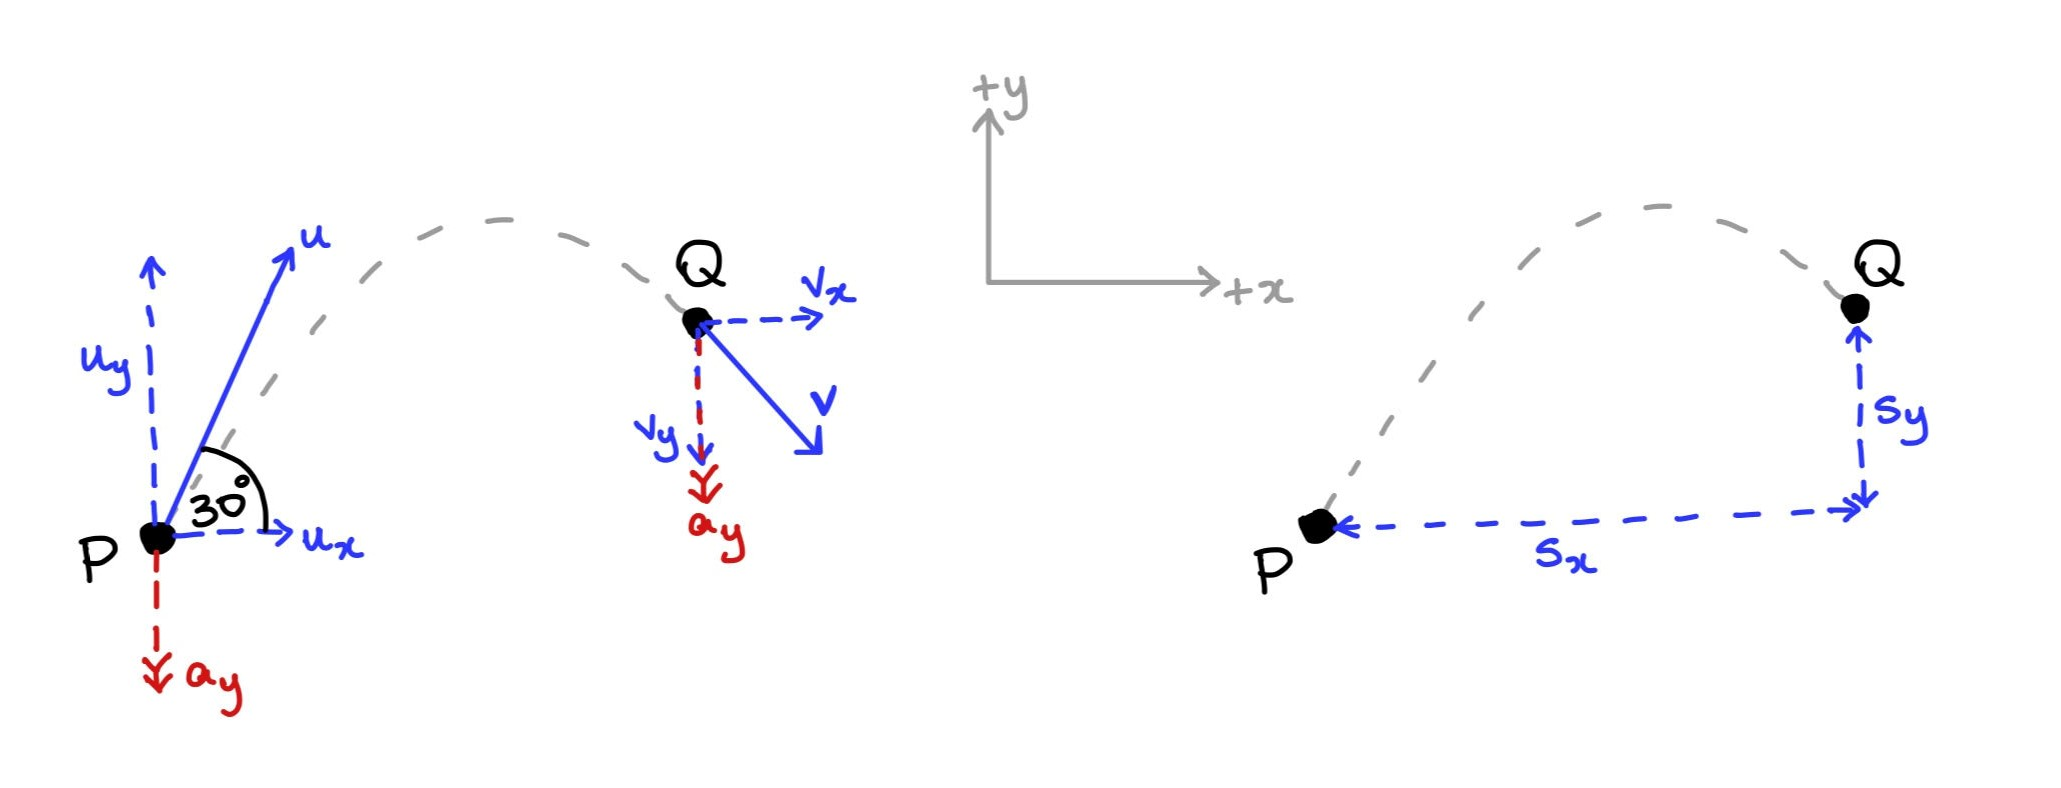
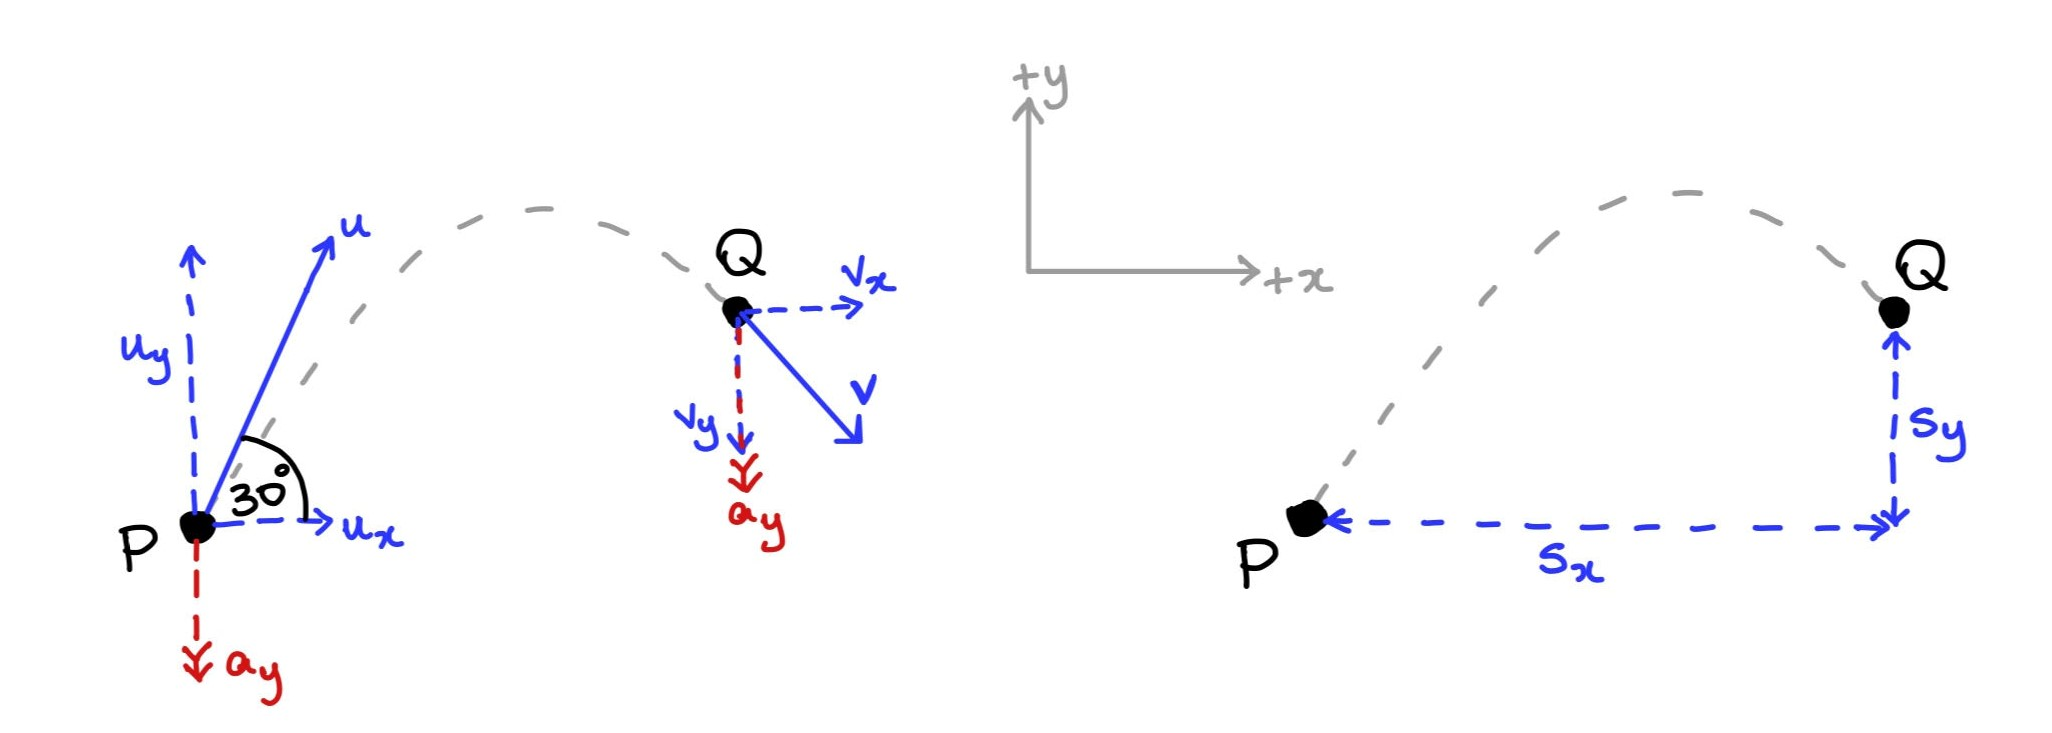
Fix q6 and add hand drawn diagrams

diff --git a/include/Solutions/2005/q6.tex b/include/Solutions/2005/q6.tex
@@ -24,20 +24,14 @@ We are given a ball that is launched at an angle to the horizontal.
 	
 \subquestion
 	
-\textbf{\textit{Sketch and Translate:}} \\ \\
-We can refer to the diagram given in the question for our sketch. At the greatest height, we should note that the vertical velocity, $v_y$ will be 0.
+\textbf{\textit{Sketch and Translate:}} \\
+We can refer to the diagram given in the question for our sketch. At the greatest height, we should note that the vertical velocity, $v_y$ will be 0. \\
 
 
 
 
-\textbf{\textit{Simplify and Diagram:}} \\ \\ 
-\addimage{../2005/figures/2005q6-Diagram1}{hhello}{Yes hi}
-\begin{figure}[H] 
-	\begin{center}
-		\hspace{20pt}\includegraphics[scale=1.2]{../2005/figures/2005q6-Diagram1}
-		\caption{\label{2005:q6:Diagram1} Motion of the ball. The left shows the velocity and acceleration of the ball, the right shows its displacement}
-	\end{center}
-\end{figure}
+\textbf{\textit{Simplify and Diagram:}} 
+\addimage{../2005/figures/2005q6-Diagram1}{2005:q6:Diagram1}{Motion of the ball, at points P and Q}
 
 We will consider the ball to act as a point particle. Let us define the following:
 \begin{itemize}
@@ -52,12 +46,12 @@ We will consider the ball to act as a point particle. Let us define the followin
 	\item $s_y$ is the vertical displacement,
 	\item $t$ is the time after launch.
 \end{itemize}
-We can find the time taken to reach the maximum height by using our equations of motion.
+We can find the time taken to reach the maximum height by using our equations of motion. \\
 	
 	
 	
 	
-\textbf{\textit{Represent Mathematically:}} \\ \\
+\textbf{\textit{Represent Mathematically:}} \\
 At max height, we know that,
 \begin{equation}
 	v_y = 0 \,.
@@ -71,7 +65,7 @@ We will find the time taken to reach the maximum height by using,
 
 
 
-\textbf{\textit{Solve and Evaluate:}} \\ \\
+\textbf{\textit{Solve and Evaluate:}} \\ 
 Using \req{2005:q5:VEqn1}, we get that,
 \begin{align}
 	0 & = 30\sin(30) -10t \nn \\
@@ -84,13 +78,13 @@ Using \req{2005:q5:VEqn1}, we get that,
 
 \subquestion 
 
-\textbf{\textit{Simplify and Diagram:}} \\ \\
-We can consider \rfig{2005:q6:Diagram1}. Again, we will use our equations of motion to find the greatest height reached. 
+\textbf{\textit{Simplify and Diagram:}} \\ 
+We can consider \rfig{2005:q6:Diagram1}. Again, we will use our equations of motion to find the greatest height reached. \\
 
 
 
 
-\textbf{\textit{Represent Mathematically:}} \\ \\
+\textbf{\textit{Represent Mathematically:}} \\ 
 At max height, we know that,
 \begin{equation}
 	v_y = 0 \,.
@@ -104,7 +98,7 @@ We will find the greatest height by using,
 
 
 
-\textbf{\textit{Solve and Evaluate:}} \\ \\
+\textbf{\textit{Solve and Evaluate:}} \\ 
 Using \req{2005:q5:SEqn1}, we get that,
 \begin{align}
 	0 & = (30\sin(30))^2 + 2(-10)(s_y) \nn \\
@@ -118,19 +112,19 @@ Using \req{2005:q5:SEqn1}, we get that,
 
 \subquestion 
 
-\textbf{\textit{Sketch and Translate:}} \\ \\
-We can consider \rfig{2005:q6:Sketch1}. At Q, we know that $s_y=10$.
+\textbf{\textit{Sketch and Translate:}} \\
+Again we refer to the sketch given in the question. At Q, we know that $s_y=10$. \\
 
 
 
 
-\textbf{\textit{Sketch and Translate:}} \\ \\
-We can consider \rfig{2005:q6:Diagram1}. We will use our equations of motion and find the times when $s_y=10$. We will take the value that is greater than 1.5s as we know, from the diagram in the question, that the ball reaches Q after it has attained its maximum height.
+\textbf{\textit{Simplify and Diagram:}} \\ 
+We can consider \rfig{2005:q6:Diagram1}. We will use our equations of motion and find the times when $s_y=10$. We will take the value that is greater than 1.5s as we know, from the diagram in the question, that the ball reaches Q after it has attained its maximum height. \\
 
 
 
 
-\textbf{\textit{Represent Mathematically:}} \\ \\
+\textbf{\textit{Represent Mathematically:}} \\
 At Q, we know that,
 \begin{equation}
 	s_y=10 \,.
@@ -144,7 +138,7 @@ To find the time taken to reach Q from P, we will use,
 
 
 
-\textbf{\textit{Solve and Evaluate:}} \\ \\
+\textbf{\textit{Solve and Evaluate:}} \\
 Using \req{2005:q6:SEqn2}, we get,
 \begin{align}
 	10 & = 30\sin(30)t + \frac{1}{2}(-10)t^2 \nn \\
@@ -152,7 +146,7 @@ Using \req{2005:q6:SEqn2}, we get,
 	(5t-5)(t-2) & = 0 \nn \\
 	t & = 1, 2 \,.
 \end{align}
-From this, we get that it takes 2s for the ball to reach Q from P.
+From this, we get that it takes 2s for the ball to reach Q from P. \\
 
 %------------------------------------------------------------------------------
 % 6 d
@@ -160,13 +154,8 @@ From this, we get that it takes 2s for the ball to reach Q from P.
 
 \subquestion 
 
-\textbf{\textit{Simplify and Diagram:}} \\ \\
-\begin{figure}[H] 
-	\begin{center}
-		\hspace{20pt}\includegraphics[scale=1.2]{../2005/figures/2005q6-Diagram2}
-		\caption{\label{2005:q6:Diagram2} Ball at points P and Q}
-	\end{center}
-\end{figure}
+\textbf{\textit{Simplify and Diagram:}} \\
+We consider the rightmost diagram of \rfig{2005:q6:Diagram1}, and note that $s_y = 10$m.
 We will define the following:
 \begin{itemize}
 	\item $v_P$ is the speed of the ball at P, $v_P=30$,
@@ -176,20 +165,21 @@ We will define the following:
 	\item $E_Q$ is the total energy of the ball at P.
 	\item $h$ is the height at Q, $h=10$.
 \end{itemize}
-By the Principle of Conservation of Energy, we know that the total energy at point P is equal to the total energy at Q. At P, we will consider the height of the ball as 0. Therefore, the ball has only kinetic energy at P and has both kinetic and potential energy at Q.
+By the Principle of Conservation of Energy, we know that the total energy at point P is equal to the total energy at Q. At P, we will consider the height of the ball as 0. Therefore, the ball has only kinetic energy at P and has both kinetic and potential energy at Q. \\
 
 
 
 
 
-\textbf{\textit{Represent Mathematically:}} \\ \\
-The Total Energy of the ball at P is,
+\textbf{\textit{Represent Mathematically:}} \\
+We will use $KE$ and $PE$ to represent Kinetic Energy and Potential Energy respectively.\\
+The total energy of the ball at P is,
 \begin{align}
 	E_P & = KE \nn \\
 	    & = \frac{1}{2}mv_P^2 \,.
 \end{align}
 
-The Total Energy of the ball at Q is,
+The total energy of the ball at Q is,
 \begin{align}
 	E_P & = KE + PE \nn \\
         & = \frac{1}{2}mv_Q^2 + mgh \,.
@@ -203,14 +193,14 @@ By the Principle of Conservation of Energy, we get that,
 
 
 
-\textbf{\textit{Solve and Evaluate:}} \\ \\
+\textbf{\textit{Solve and Evaluate:}} \\
 Using \req{2005:q6:EEqn1}, we get that,
 \begin{align}
 	E_P & = E_Q \nn \\
 	\frac{1}{2}mv_P^2 & = \frac{1}{2}mv_Q^2 + mgh \nn \\
 	v_P^2 & = v_Q^2 +2gh \nn \\
 	v_Q & = \sqrt{30^2 - 200} \nn \\
-	    & = \sqrt{700} \,.
+	    & = \sqrt{700}~ ms^{-1} \,.
 \end{align}
 	
 \end{subquestions}
